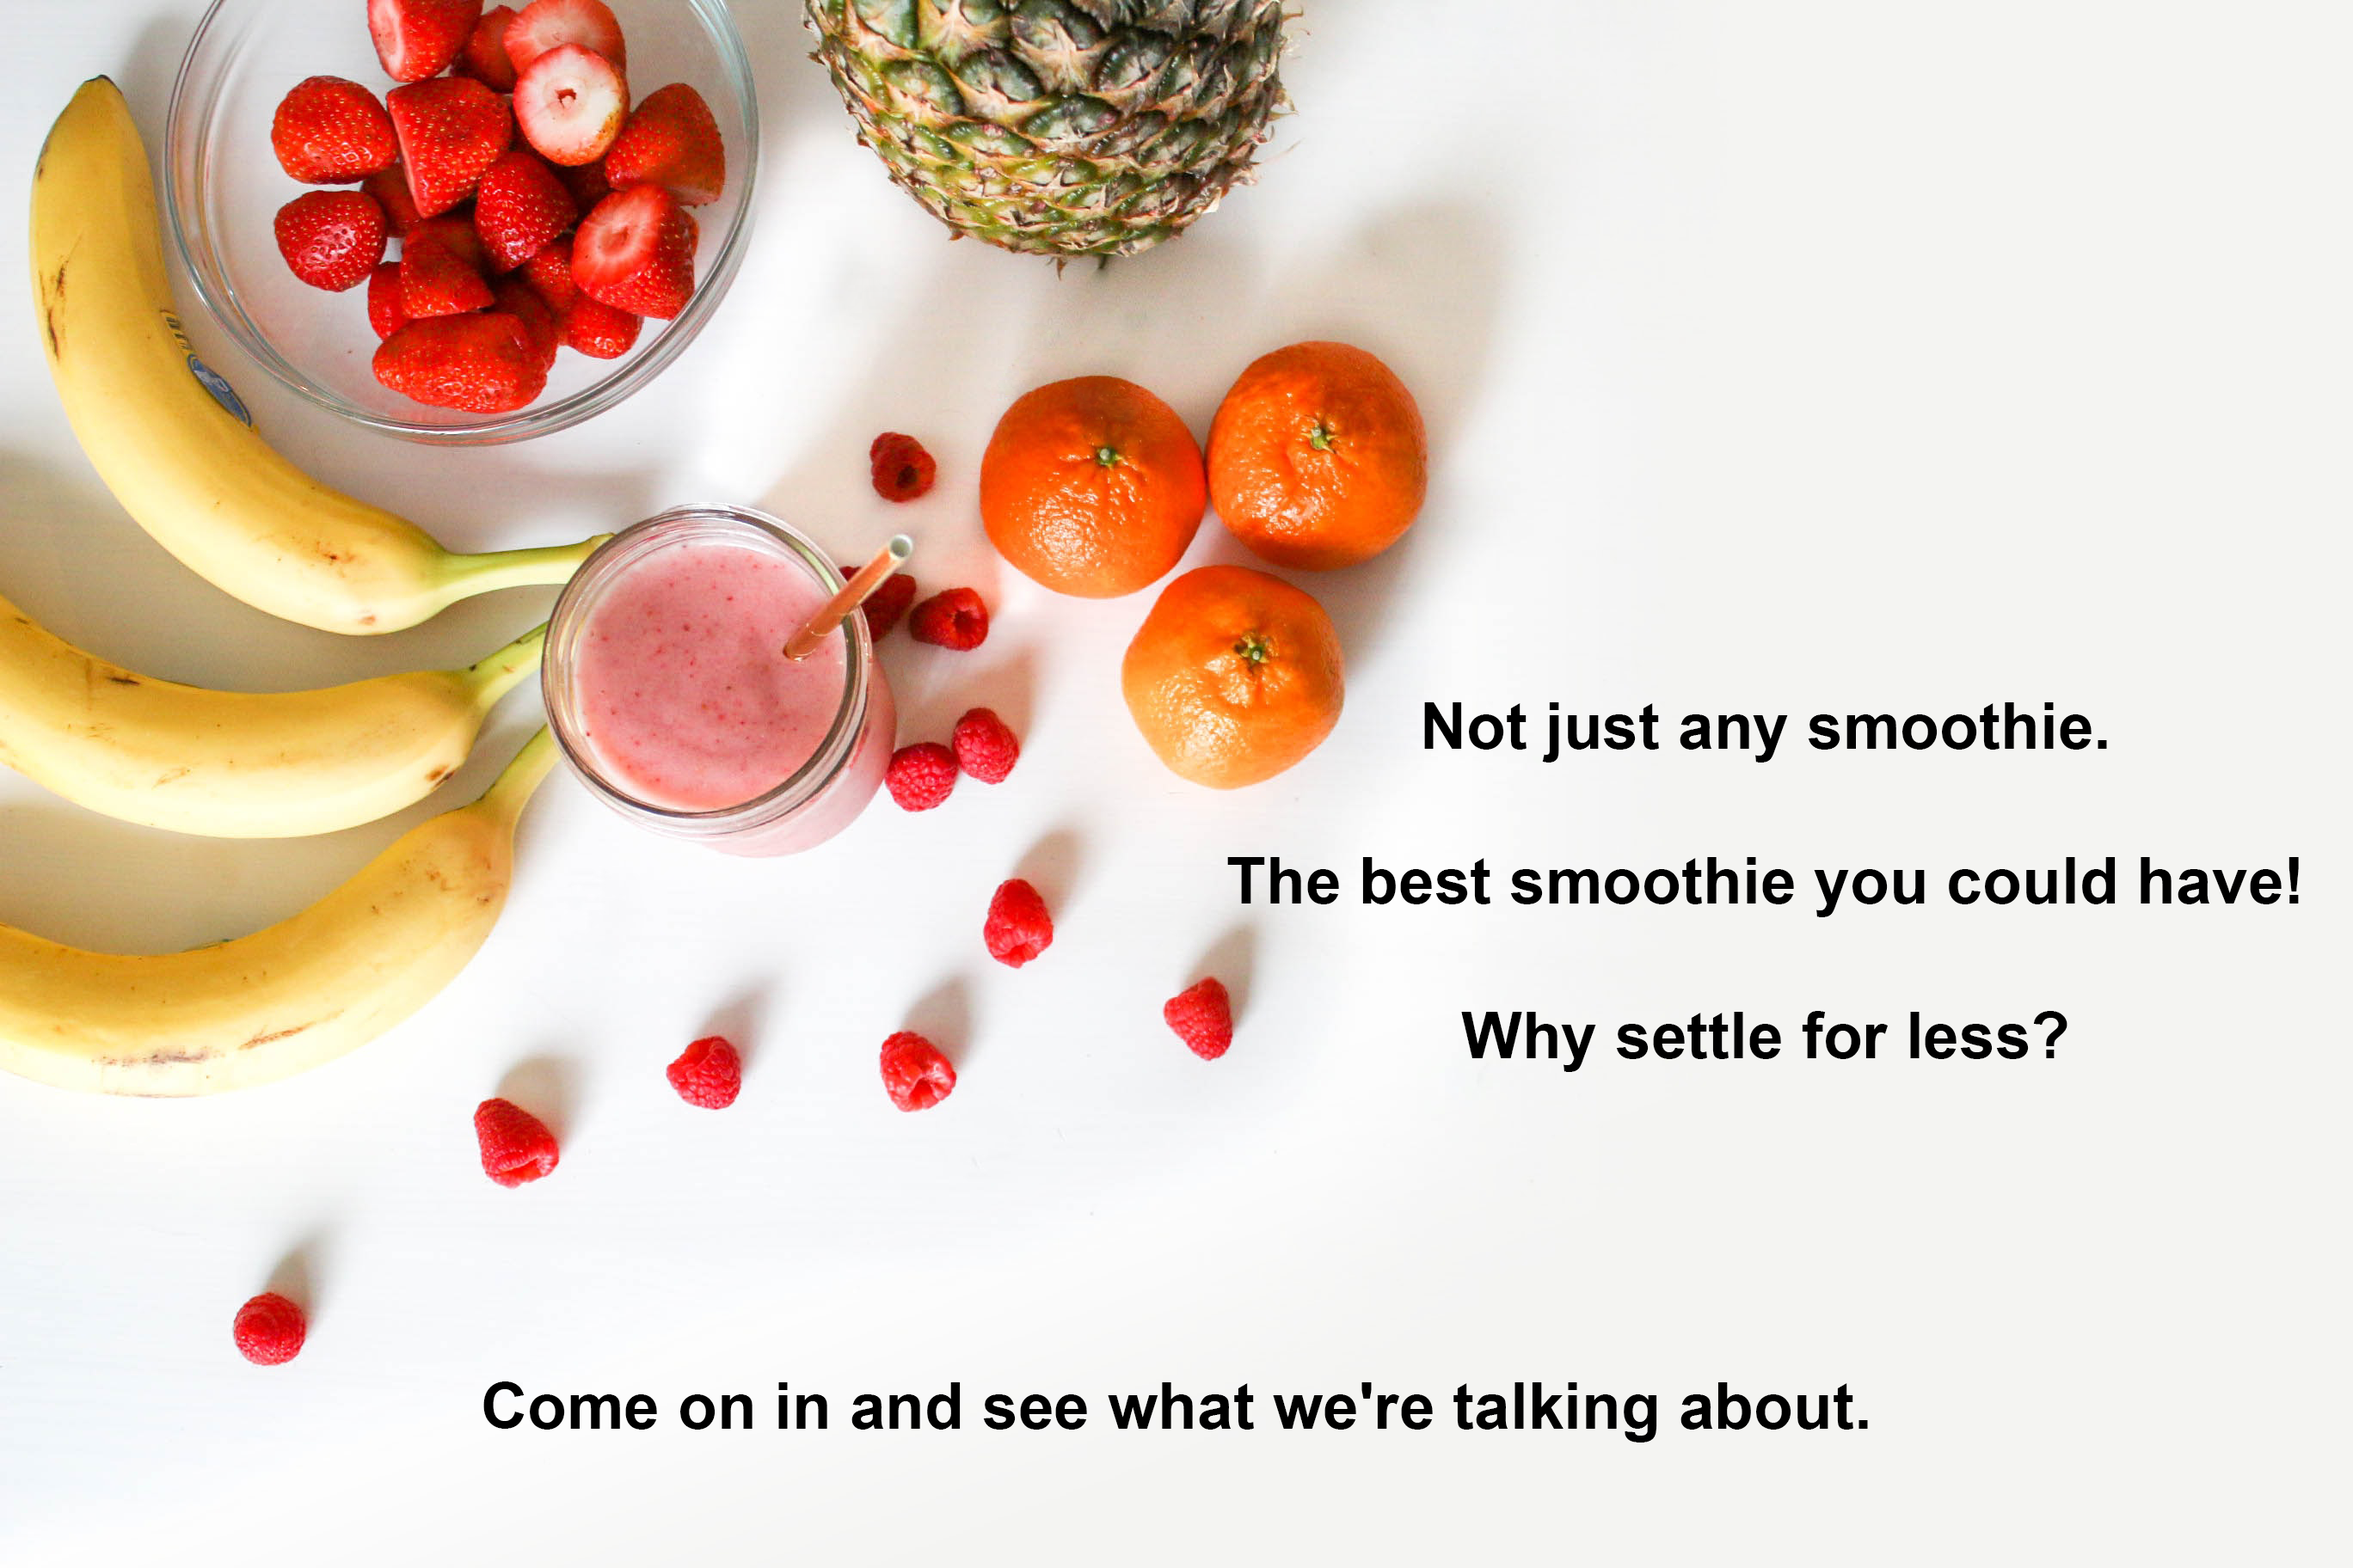
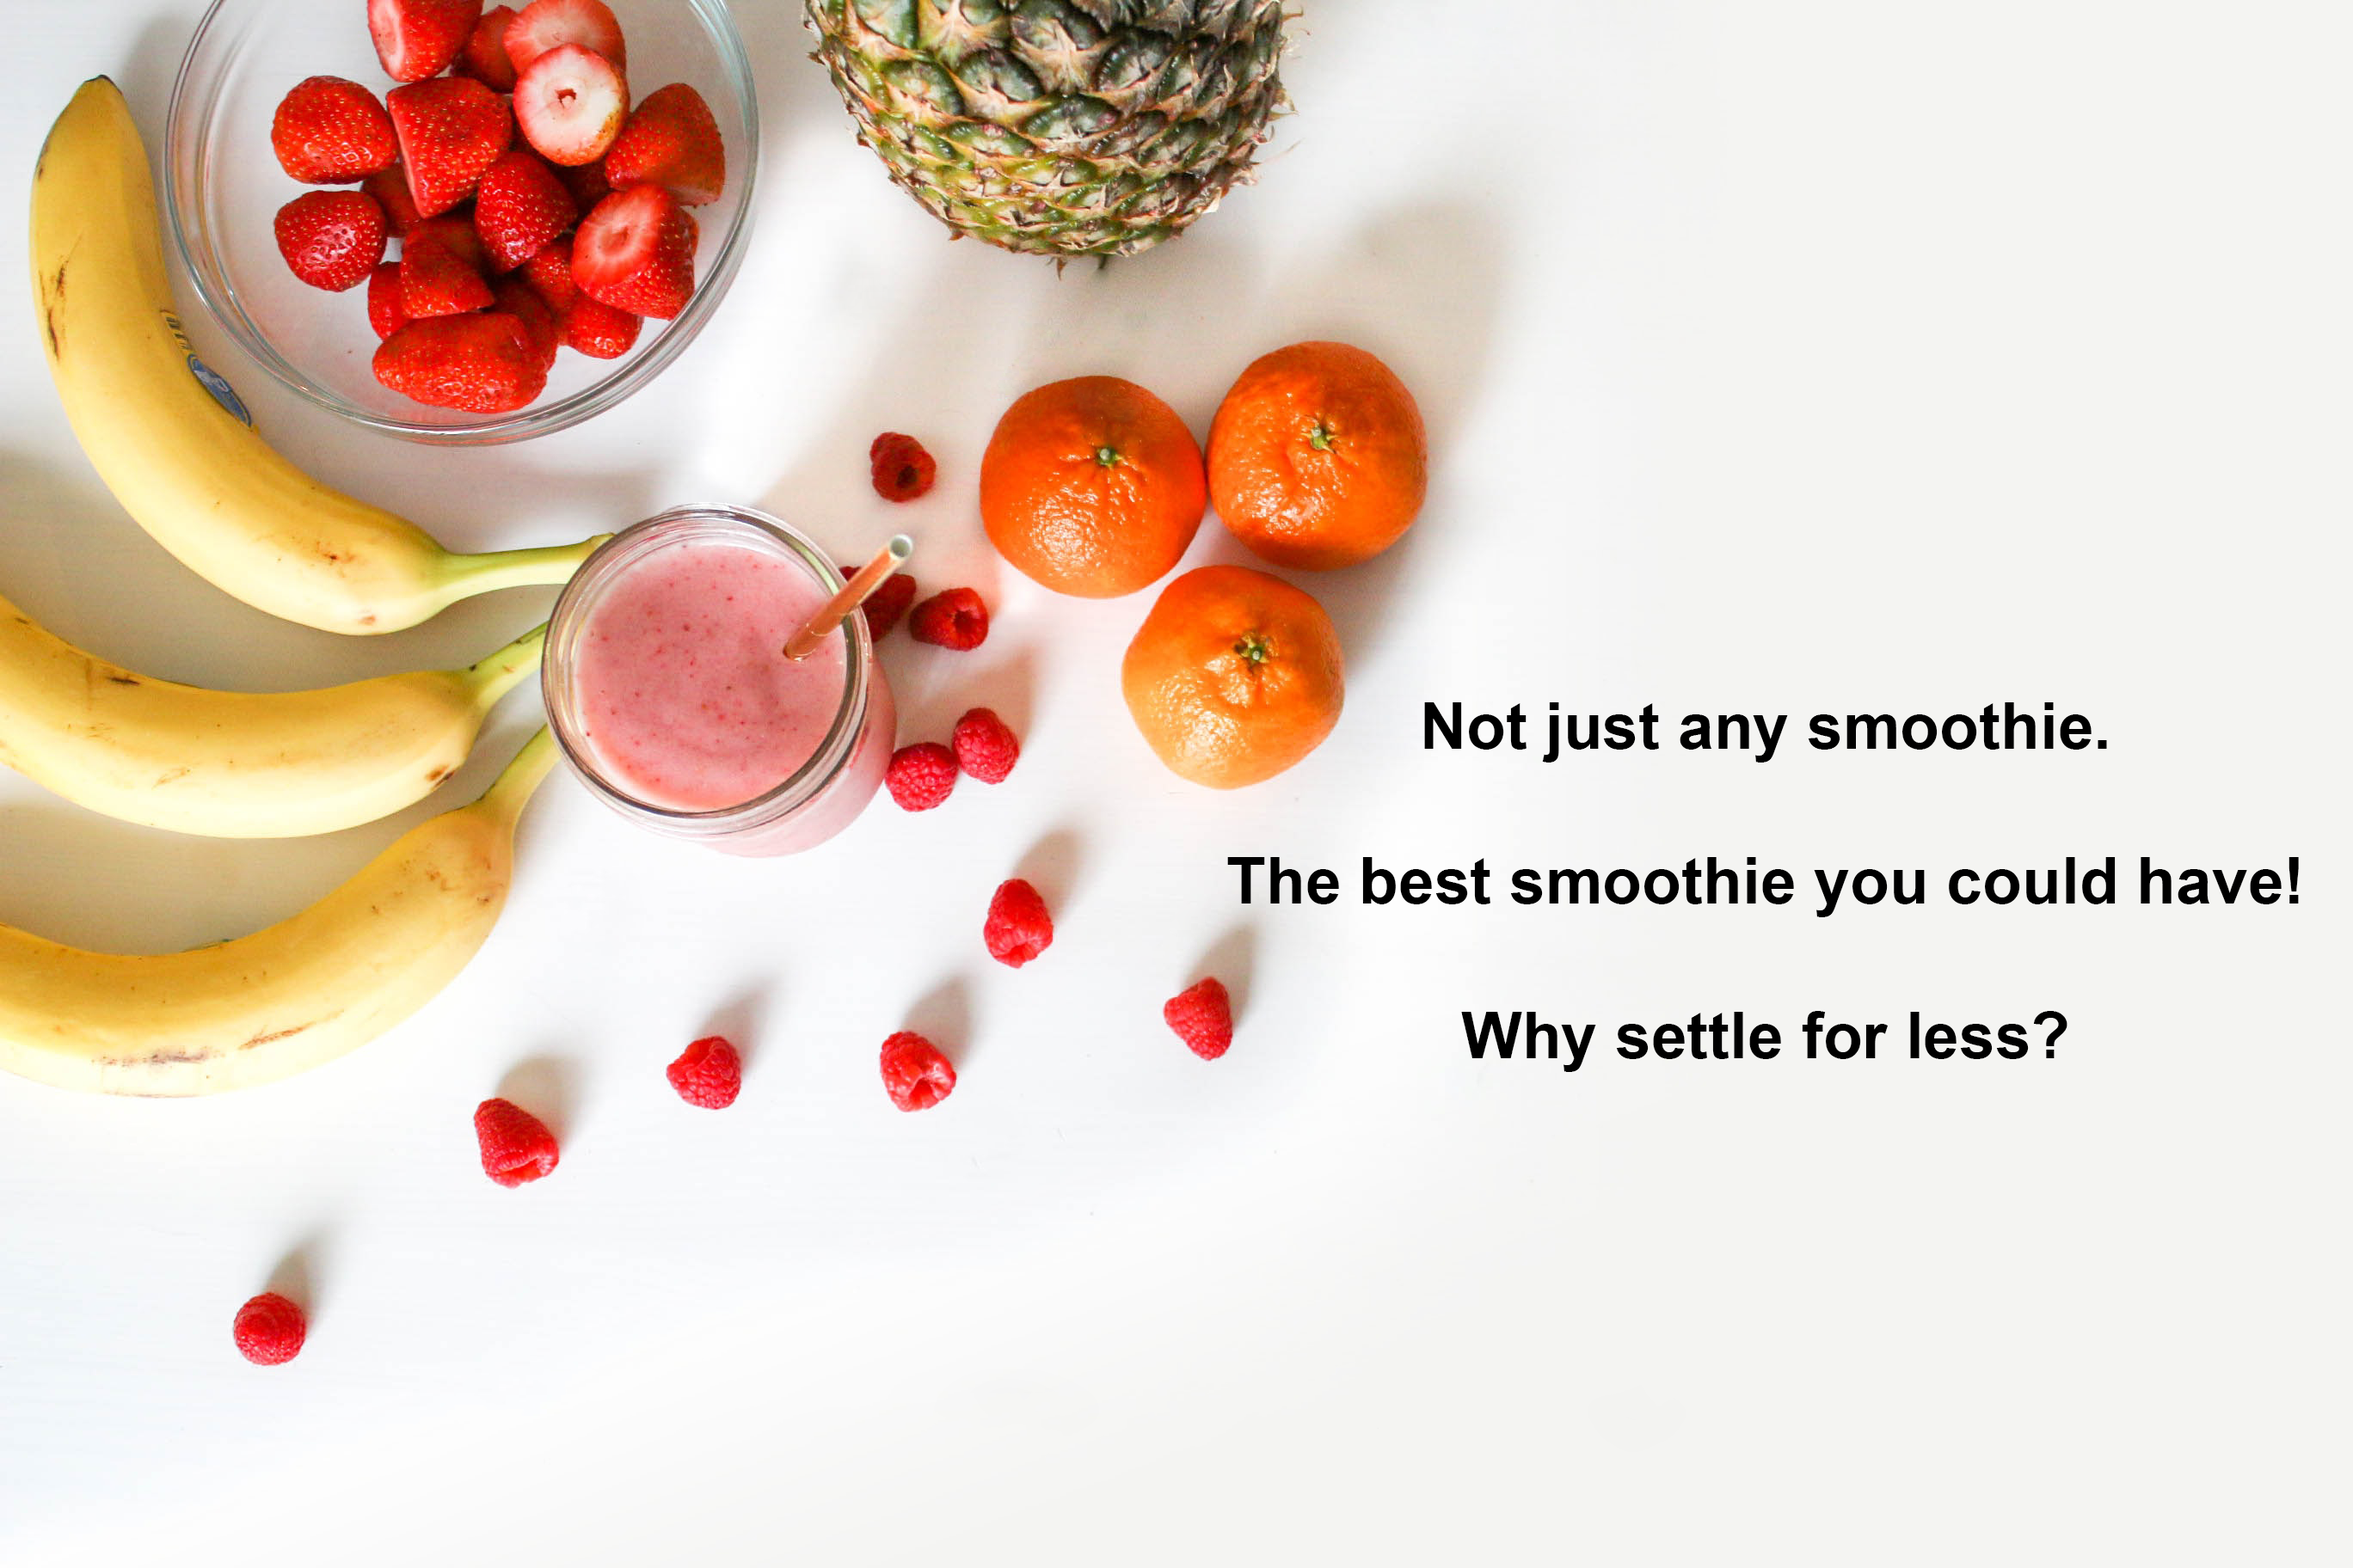
minor details
removed subtitle text on image and added opacity on hover for shop.

Changed region(s): [[0.1864, 0.875, 0.8077, 0.9375]]

diff --git a/styles.css b/styles.css
@@ -126,6 +126,9 @@ ul li a:hover {
   font-size: 18px;
 }
 
+.grid-item:hover {
+	opacity: 0.7;
+}
 
 
 #sb {
